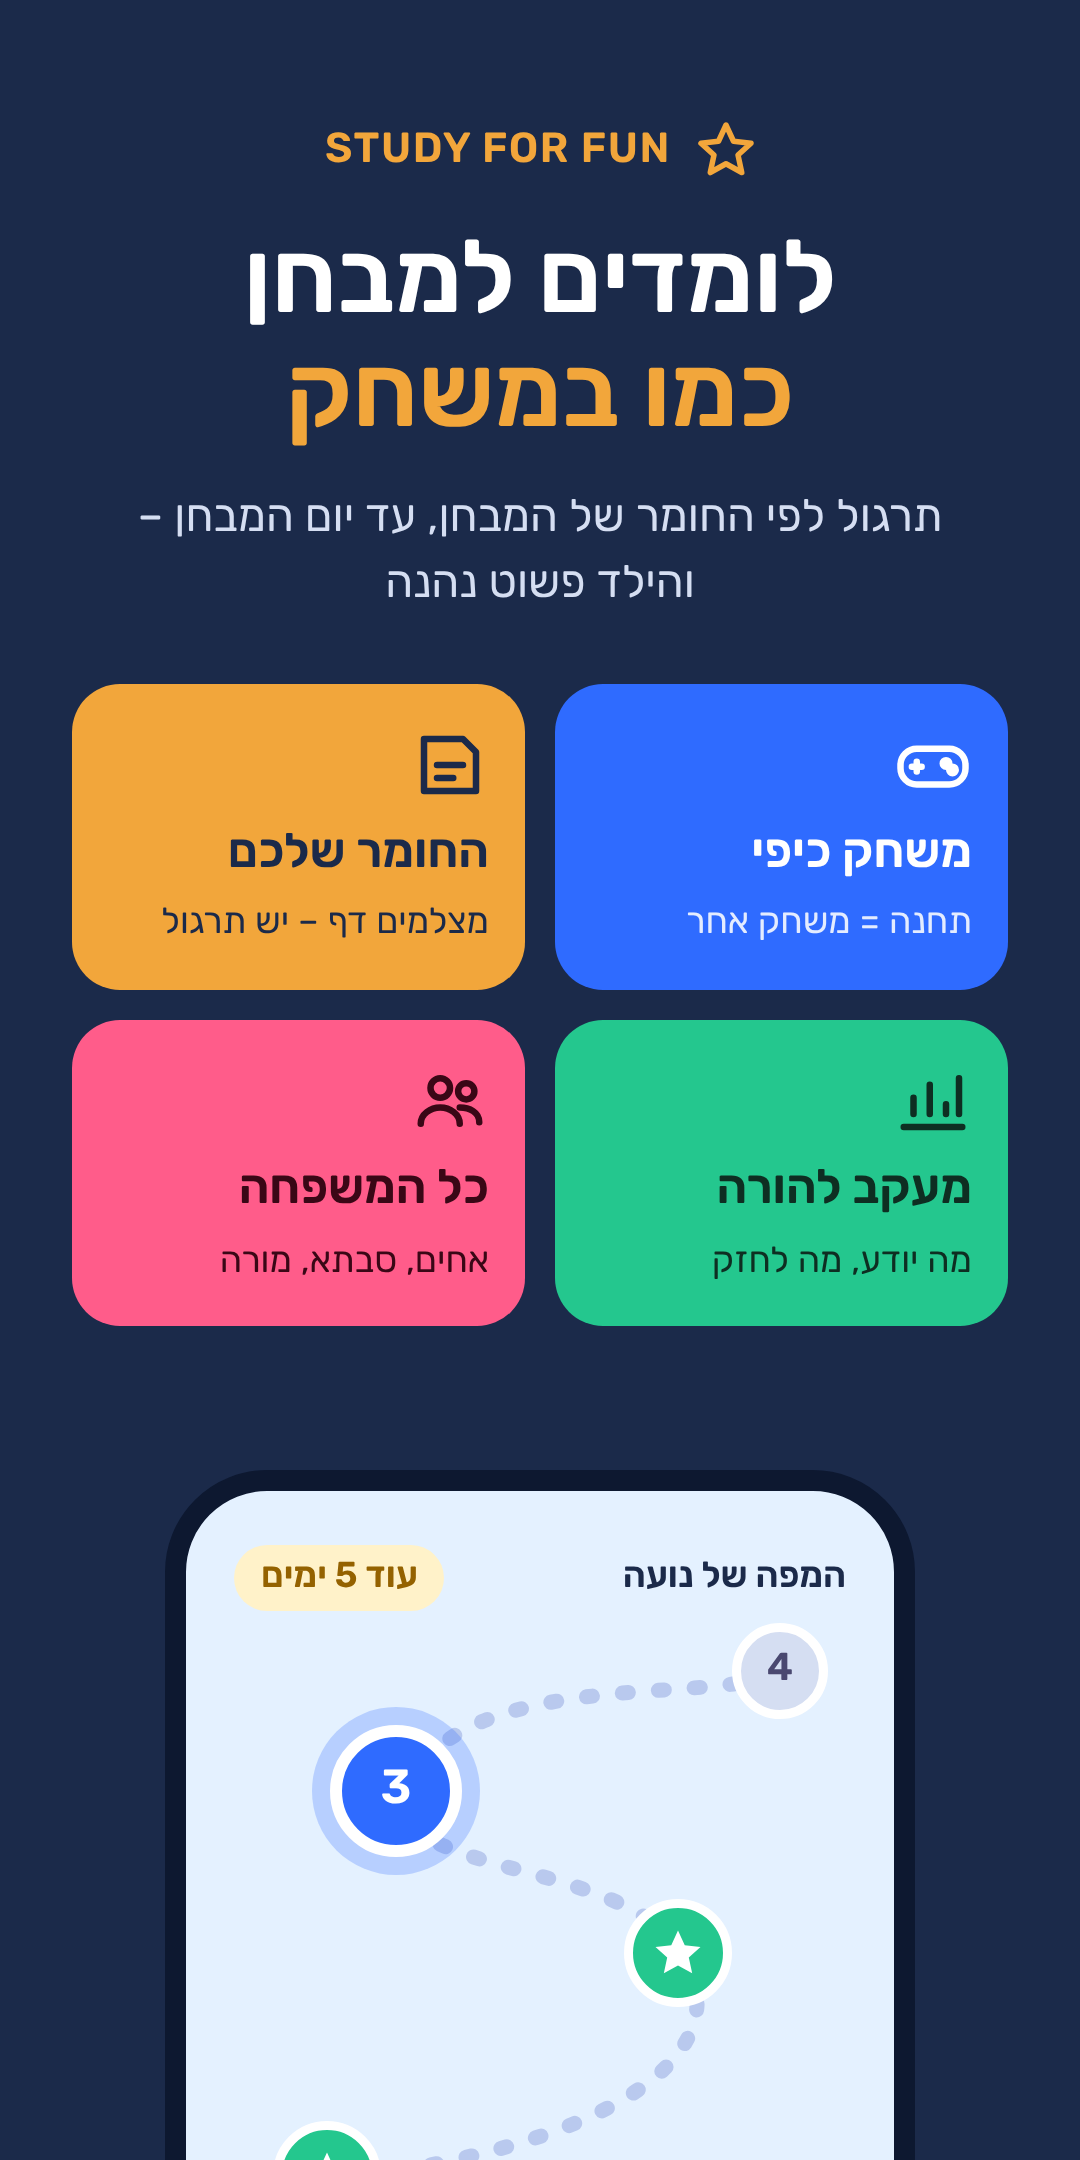
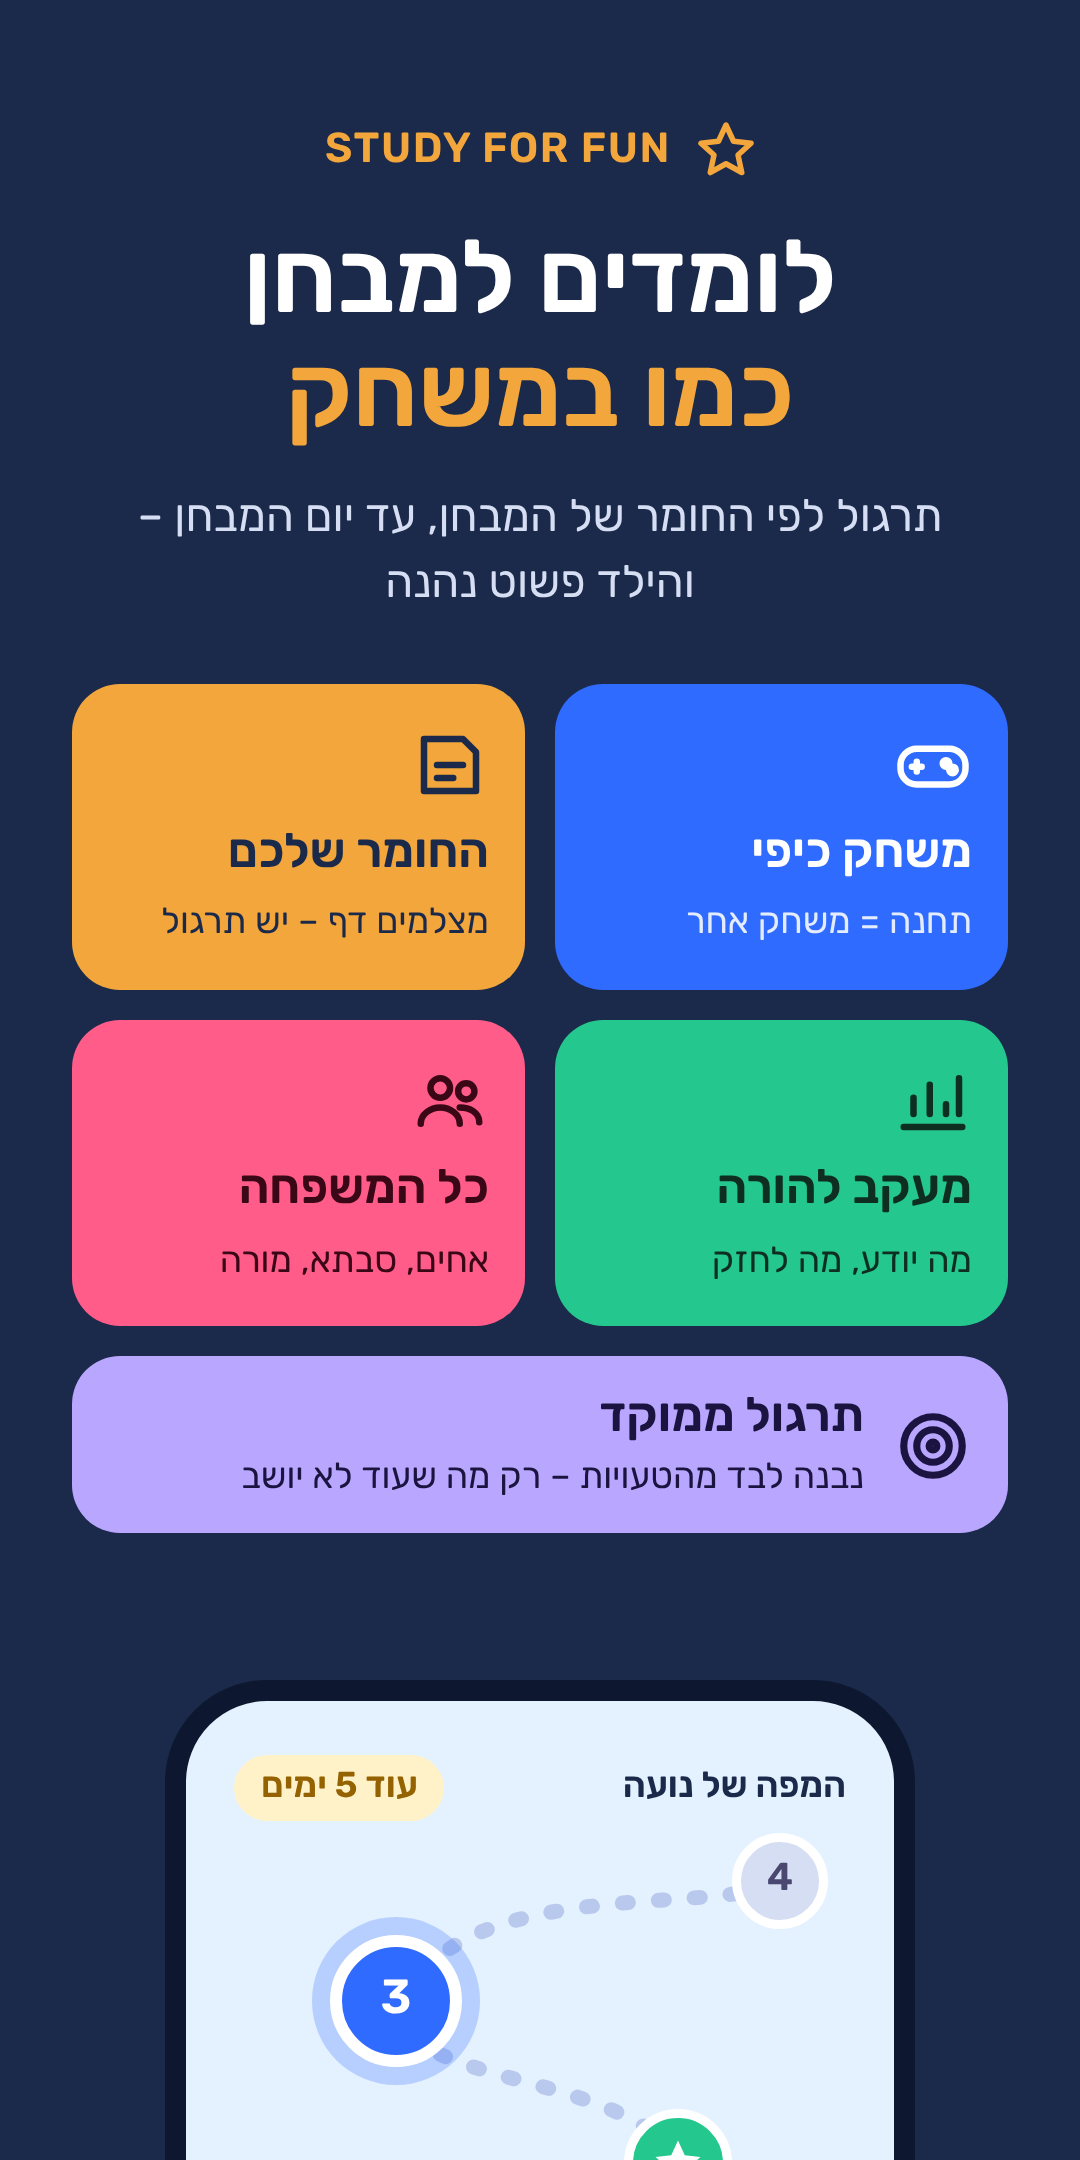
Focused practice: the store pictures in the new order (4_focus … 8_share), the intro tests for 7 parent screens
Claude-Session: https://claude.ai/code/session_018ARCFrnypinXbQosbA2nGK

Changed region(s): [[0.0611, 0.6204, 0.9472, 1.0], [0.3972, 0.9926, 0.4889, 1.0]]

diff --git a/tools/tests/e2e_intro_teacher.js b/tools/tests/e2e_intro_teacher.js
@@ -151,11 +151,11 @@ const EMU = { fs: 'http://127.0.0.1:8080', auth: 'http://127.0.0.1:9099' };
   console.log('4. a parent never sees the teachers\' screens');
   const cp = await ctx('introParent2', { name: 'הורה' }), pp = await page(cp);
   await pp.waitForTimeout(2500); if (await pp.$('#fbGo')) await pp.click('#fbGo'); await pp.waitForFunction(() => window.SFF_ROLE, null, { timeout: 20000 }); await pp.waitForTimeout(1500);
-  const keysP = []; for (let i = 0; i < 6; i++) { const x = await shown(pp); if (!x) break; keysP.push(x.key); if (i < 5) { await pp.click('#intro .inext'); await pp.waitForTimeout(250); } }
-  ok(keysP.join() === 'main,build,testday,progress,share,safe', "the parent's 6 screens only: " + keysP.join());
+  const keysP = []; for (let i = 0; i < 7; i++) { const x = await shown(pp); if (!x) break; keysP.push(x.key); if (i < 6) { await pp.click('#intro .inext'); await pp.waitForTimeout(250); } }
+  ok(keysP.join() === 'main,build,testday,progress,focus,share,safe', "the parent's 7 screens only: " + keysP.join());
   await pp.click('#intro .inext'); await pp.waitForTimeout(600);
   await pp.evaluate(() => { openHowItWorks(); }); await pp.waitForTimeout(300); s = await shown(pp);
-  ok(s && s.key === 'main' && s.n === 6, '☰ → איך זה עובד: the parent\'s series, as before');
+  ok(s && s.key === 'main' && s.n === 7, '☰ → איך זה עובד: the parent\'s series, as before');
   ok(!errs.length, 'no page errors ' + errs.slice(0, 3).join(' | '));
   await b.close();
 })().catch(e => { console.error(e); process.exit(1); });
